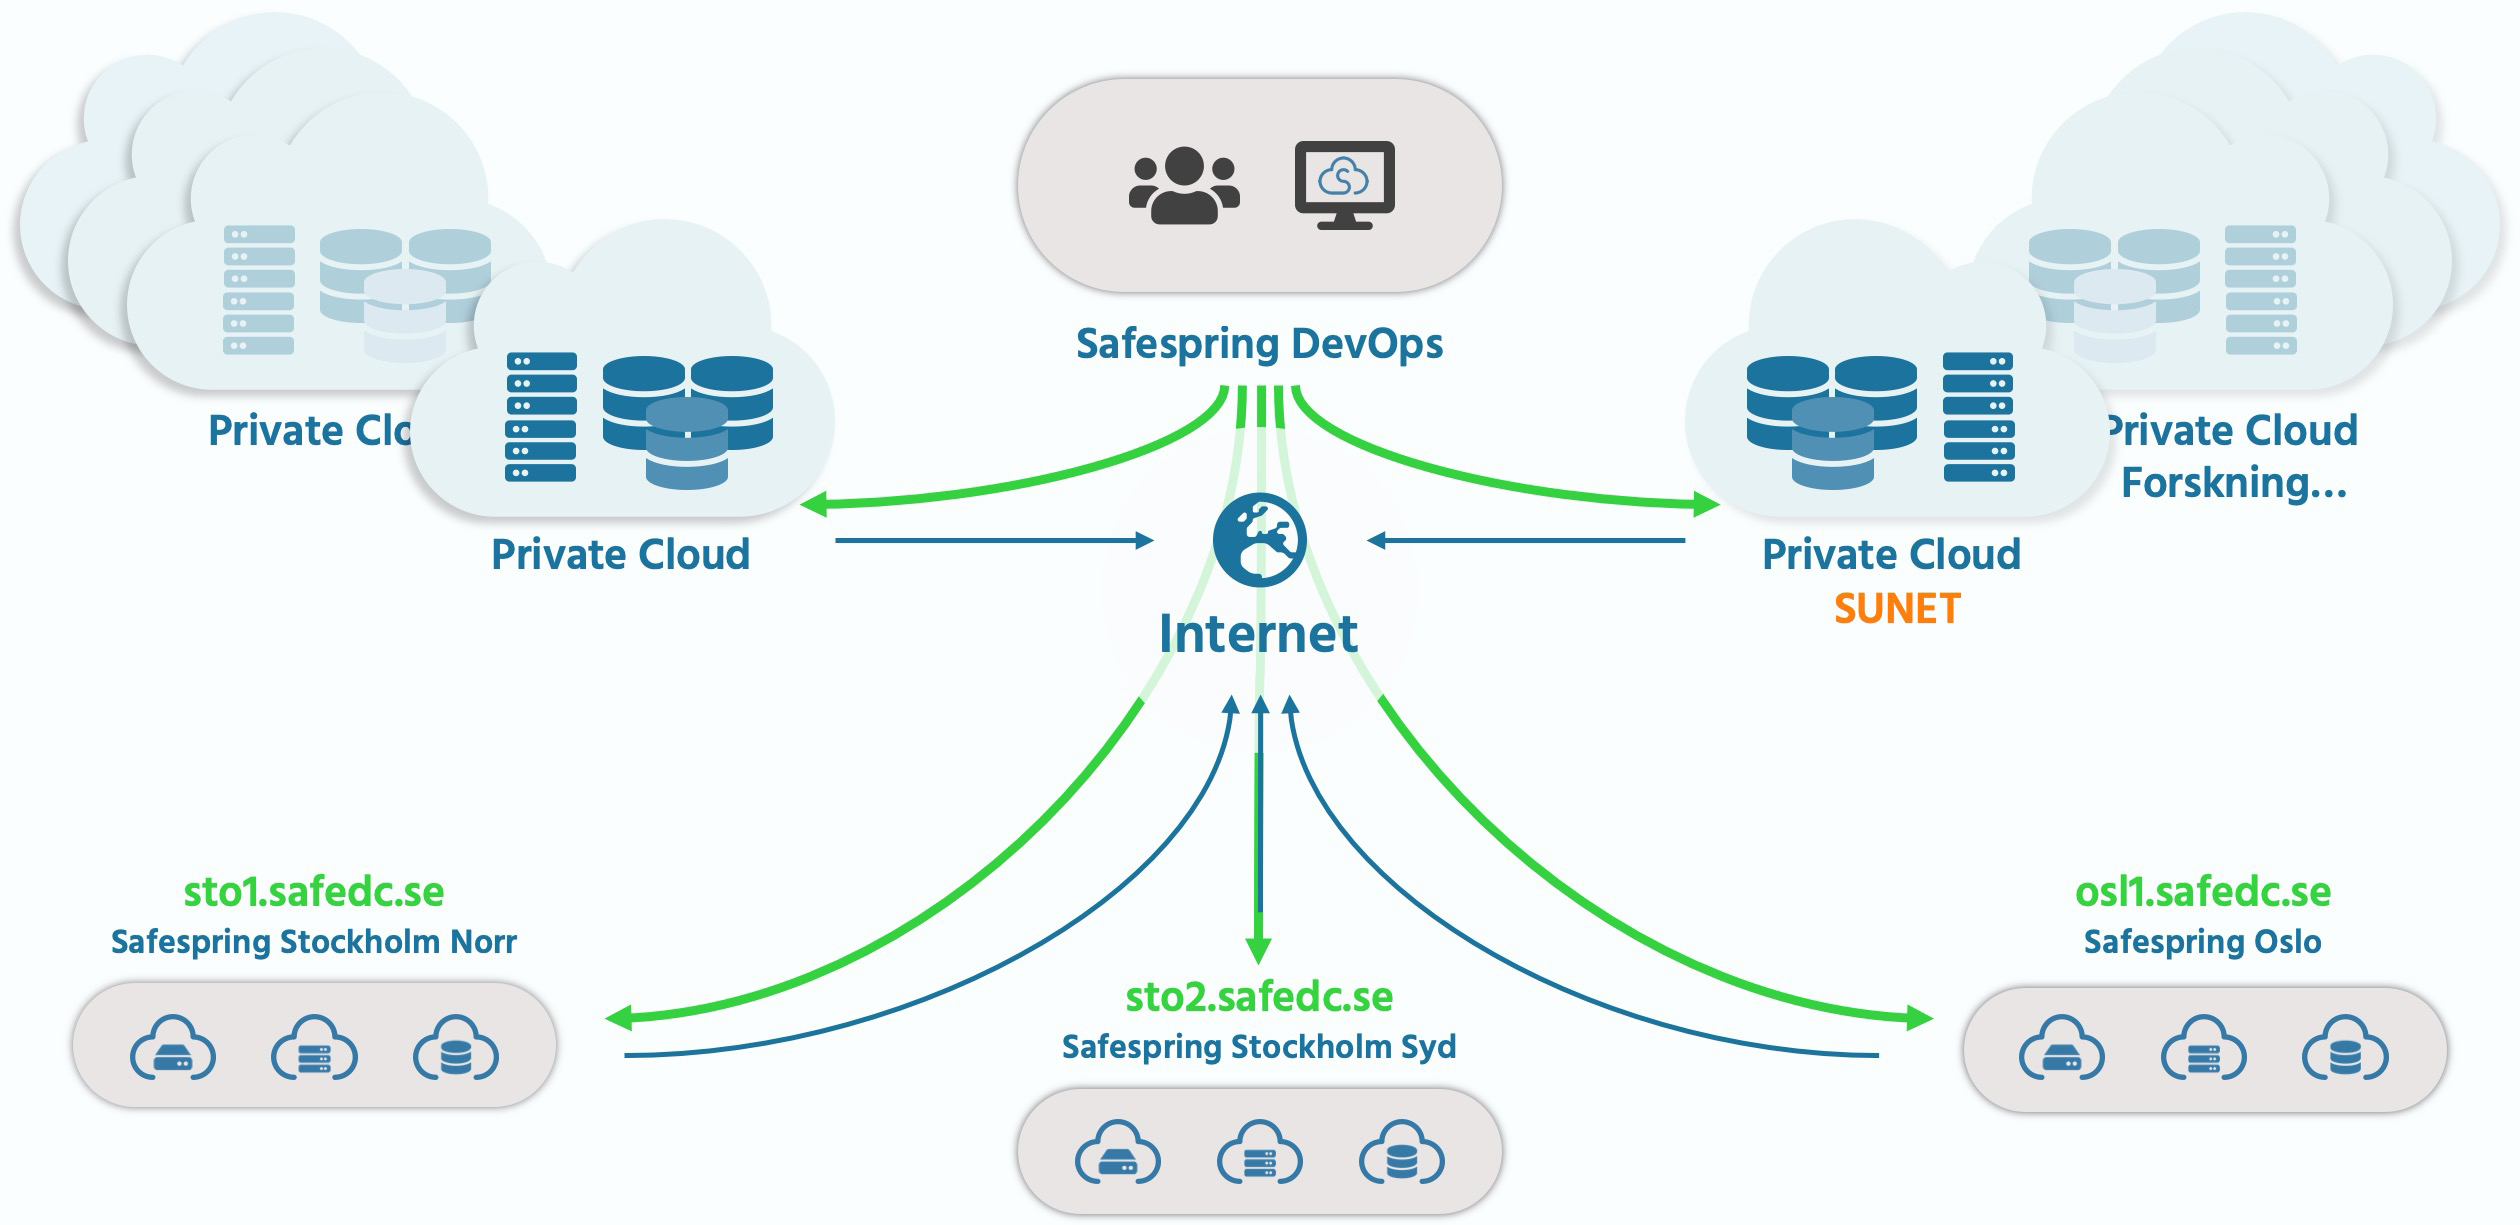
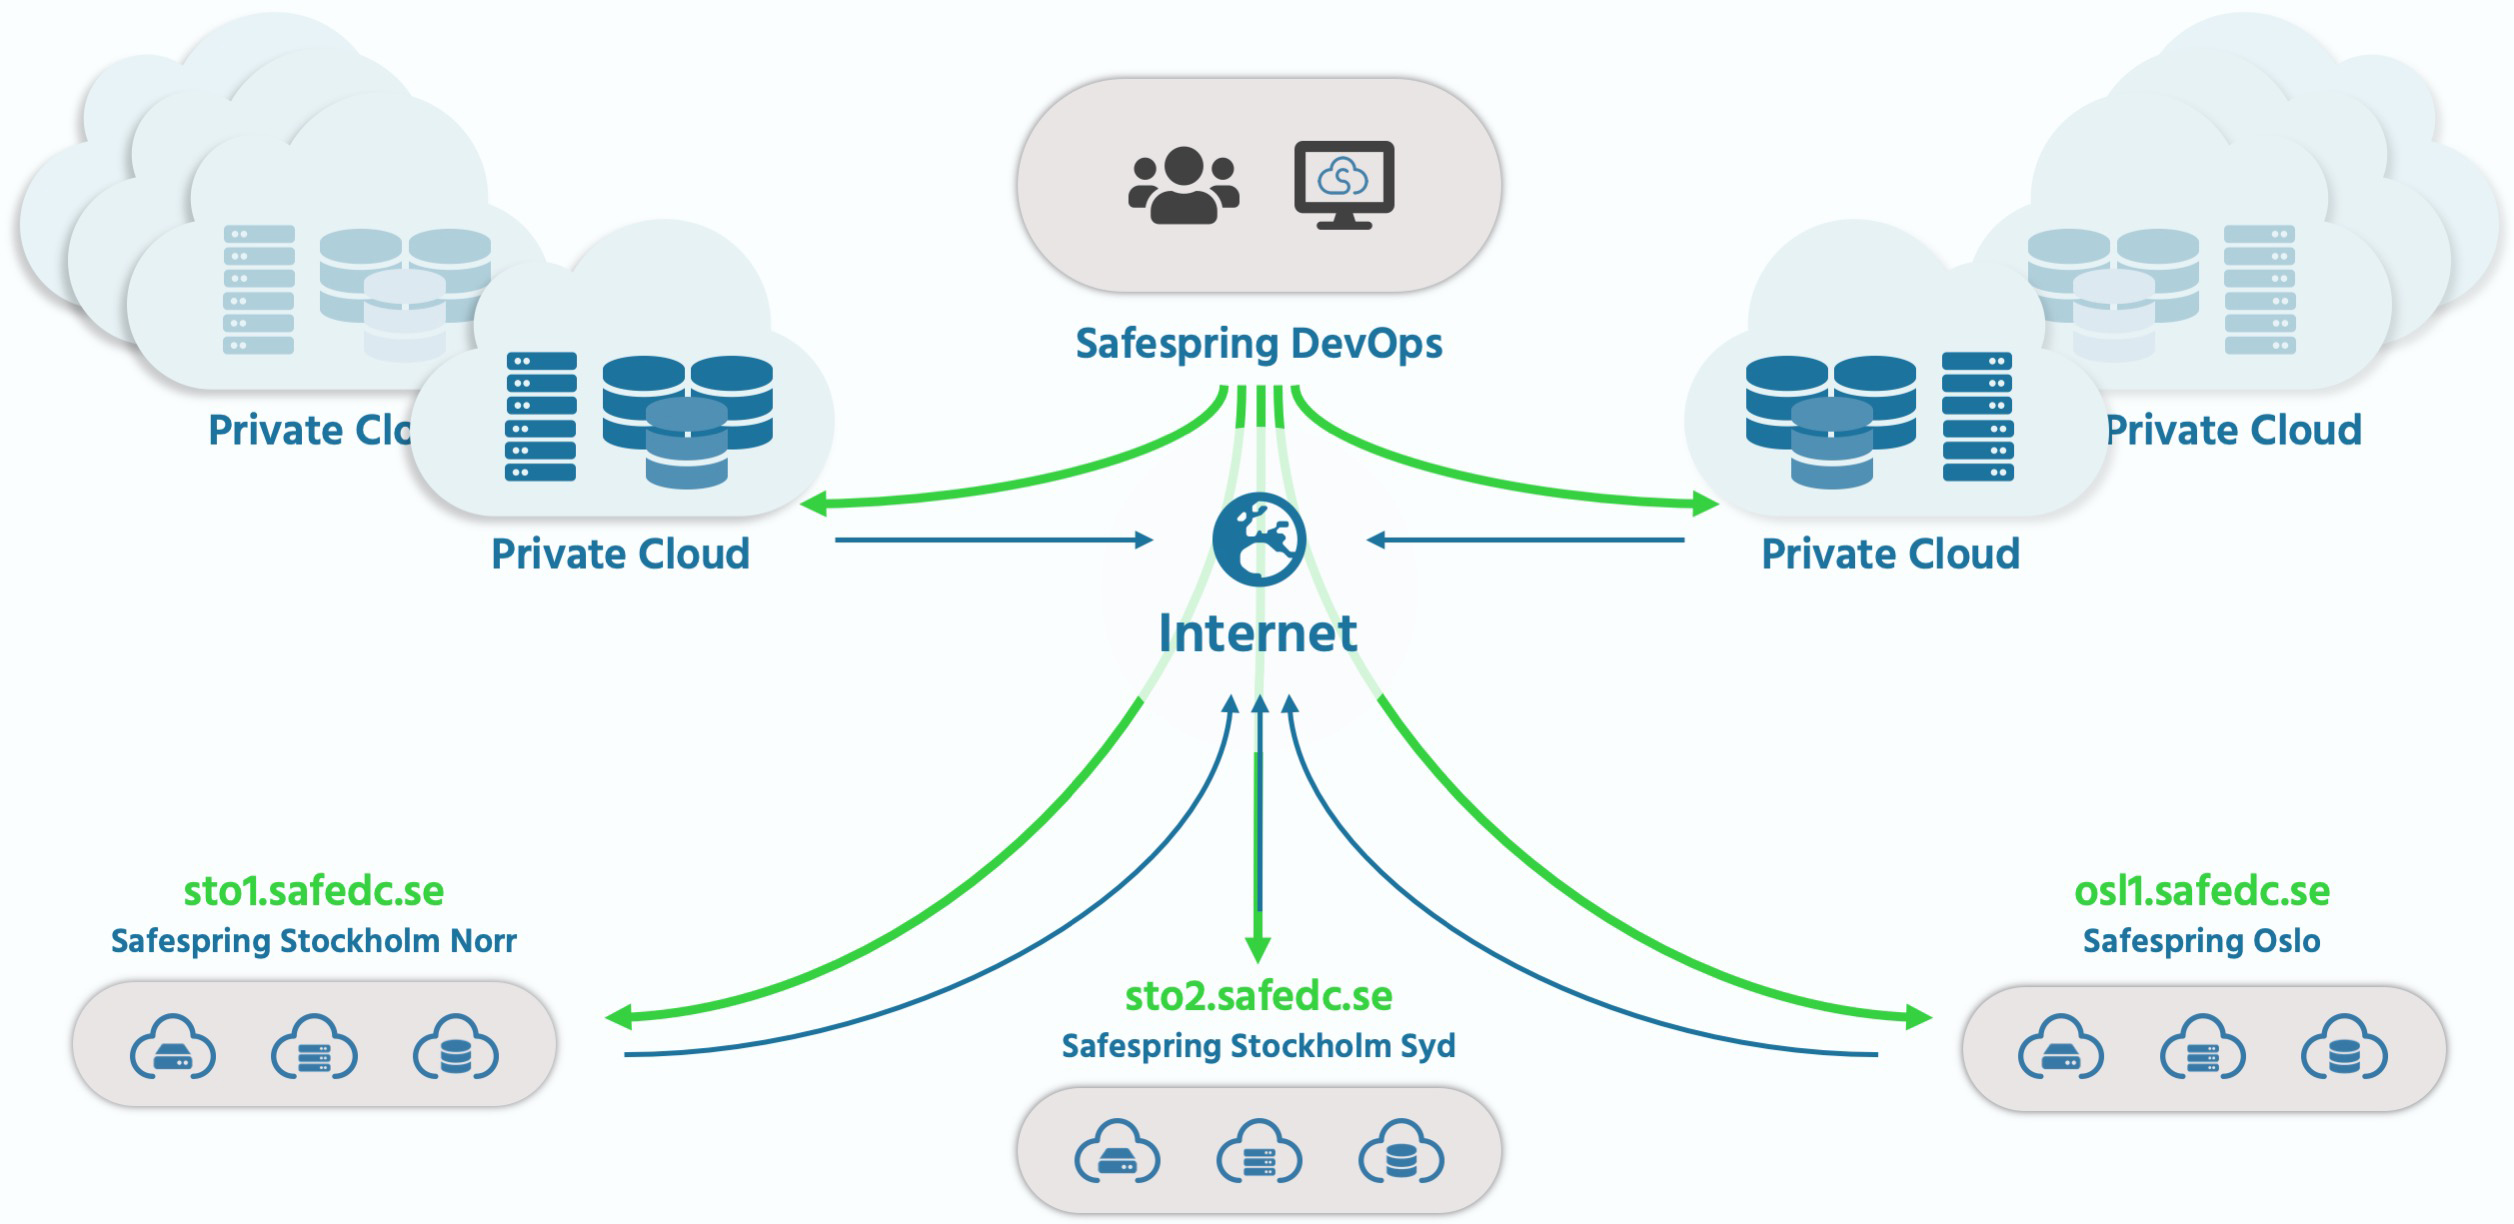
New image for private cloud

diff --git a/content/tjanster/managed-private-cloud.md b/content/tjanster/managed-private-cloud.md
@@ -10,3 +10,6 @@ Våra molntjänster är baserade på öppen källkod och öppna standarder med s
 
 ### Managed Private Cloud
 För er som har önskemål om denna funktionalitet erbjuder vi vårt koncept **Managed Private Cloud**. I den lösningen installerar och underhåller vi en privat molnplattform i ert datacenter på er infrastruktur. Vi hanterar ert privata moln på samma sätt som vår publika molnplattform med vår övervakning och våra drifthanteringsrutiner. Skulle ni vid någon tidpunkt i framtiden vilja hantera lösningen själva så har vi rutiner för att lämna över plattformen i era händer.
+<br><br><br>
+
+![Få hjälp med att sätta upp din egen molnmiljö som vi underhåller. Då får du kraften från molnet - i ditt datacenter.](/tjanster/Images/safespring_private_cloud.jpg "Managed Private Cloud")
